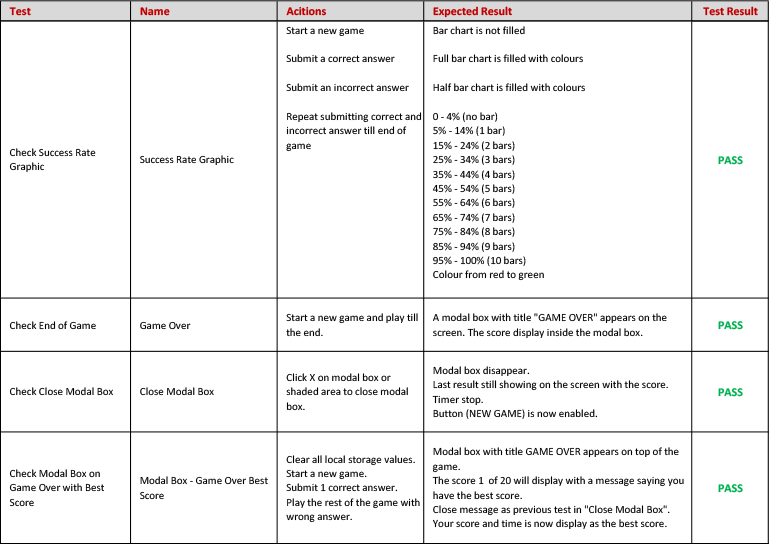
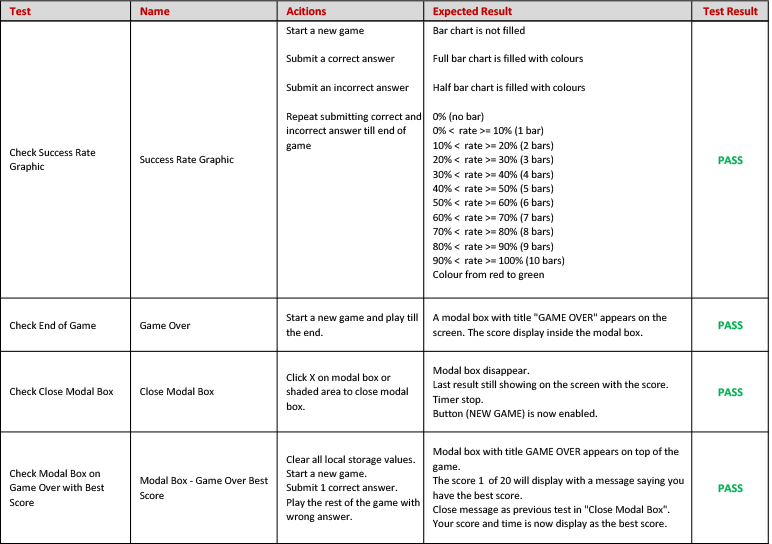
doc: Update test report

Changed region(s): [[0.5596, 0.1875, 0.7461, 0.5]]

diff --git a/README.md b/README.md
@@ -283,17 +283,17 @@ During the game only one button will be enabled at a time.
 
 ### *Level Counter and Success Rate*
 Success Rate is calculated by number of correct answers against the levels completed. The bar chart has 10 bars and each bar is represent as follow:
-* 0 - 4% (no bar)
-* 5% - 14% (1 bar)
-* 15% - 24% (2 bars)
-* 25% - 34% (3 bars)
-* 35% - 44% (4 bars)
-* 45% - 54% (5 bars)
-* 55% - 64% (6 bars)
-* 65% - 74% (7 bars)
-* 75% - 84% (8 bars)
-* 85% - 94% (9 bars)
-* 95% - 100% (10 bars)
+* 0% (no bar)
+* 0% > rate <= 10% (1 bar)
+* 10% > rate <= 20% (2 bars)
+* 20% > rate <= 30% (3 bars)
+* 30% > rate <= 40% (4 bars)
+* 44% > rate <= 50% (5 bars)
+* 50% > rate <= 60% (6 bars)
+* 60% > rate <= 70% (7 bars)
+* 70% > rate <= 80% (8 bars)
+* 80% > rate <= 90% (9 bars)
+* 90% > rate <= 100% (10 bars)
 
 *Screenshots - Samples of Level Counter and Success Rates*
 
@@ -347,8 +347,13 @@ ___
 
 **Unit Tesing**
 
+Unit testing was used to test individual feature of the game. It test each feature to ensure the operation is functioning as expected.
+
 Click [here](readme/testing/report-unit-testing.md) for the unit testing report.
 
 **Funtional Testing**
 
+The functional testing is to ensure the site and the game is behave as expected.
+
 Click [here](readme/testing/report-functional-testing.md) for the functional testing report.
+___
